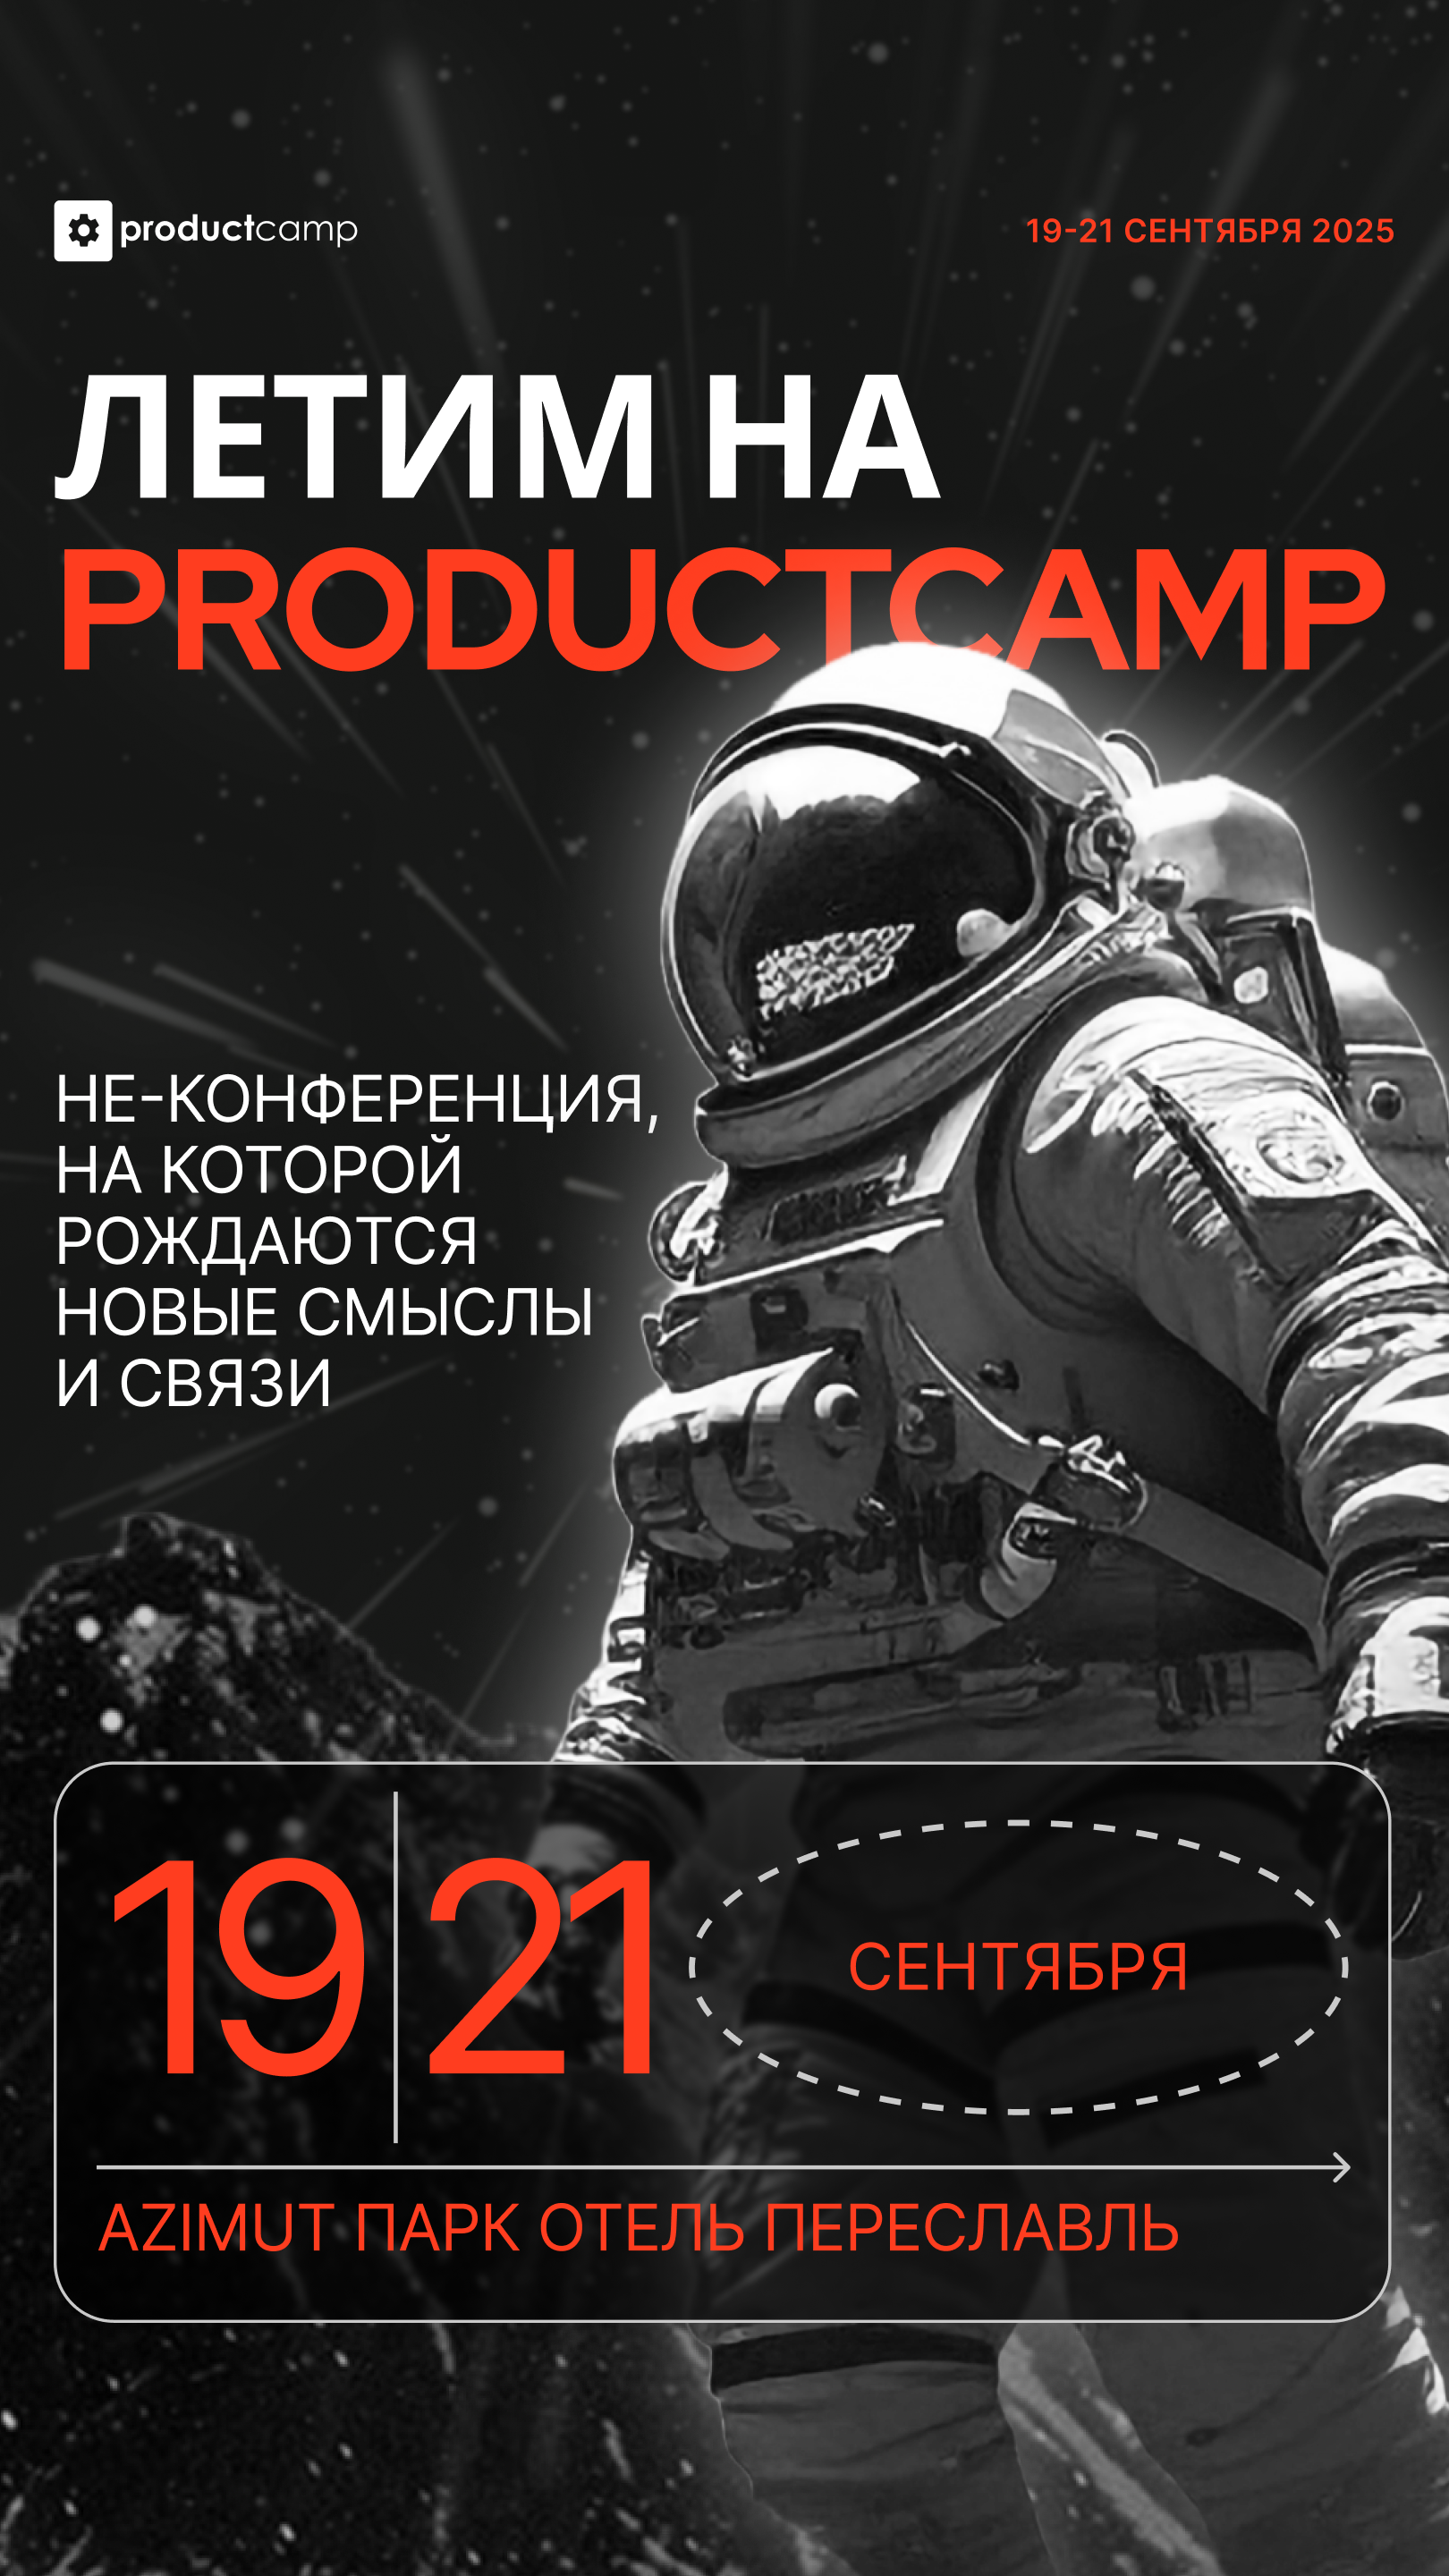
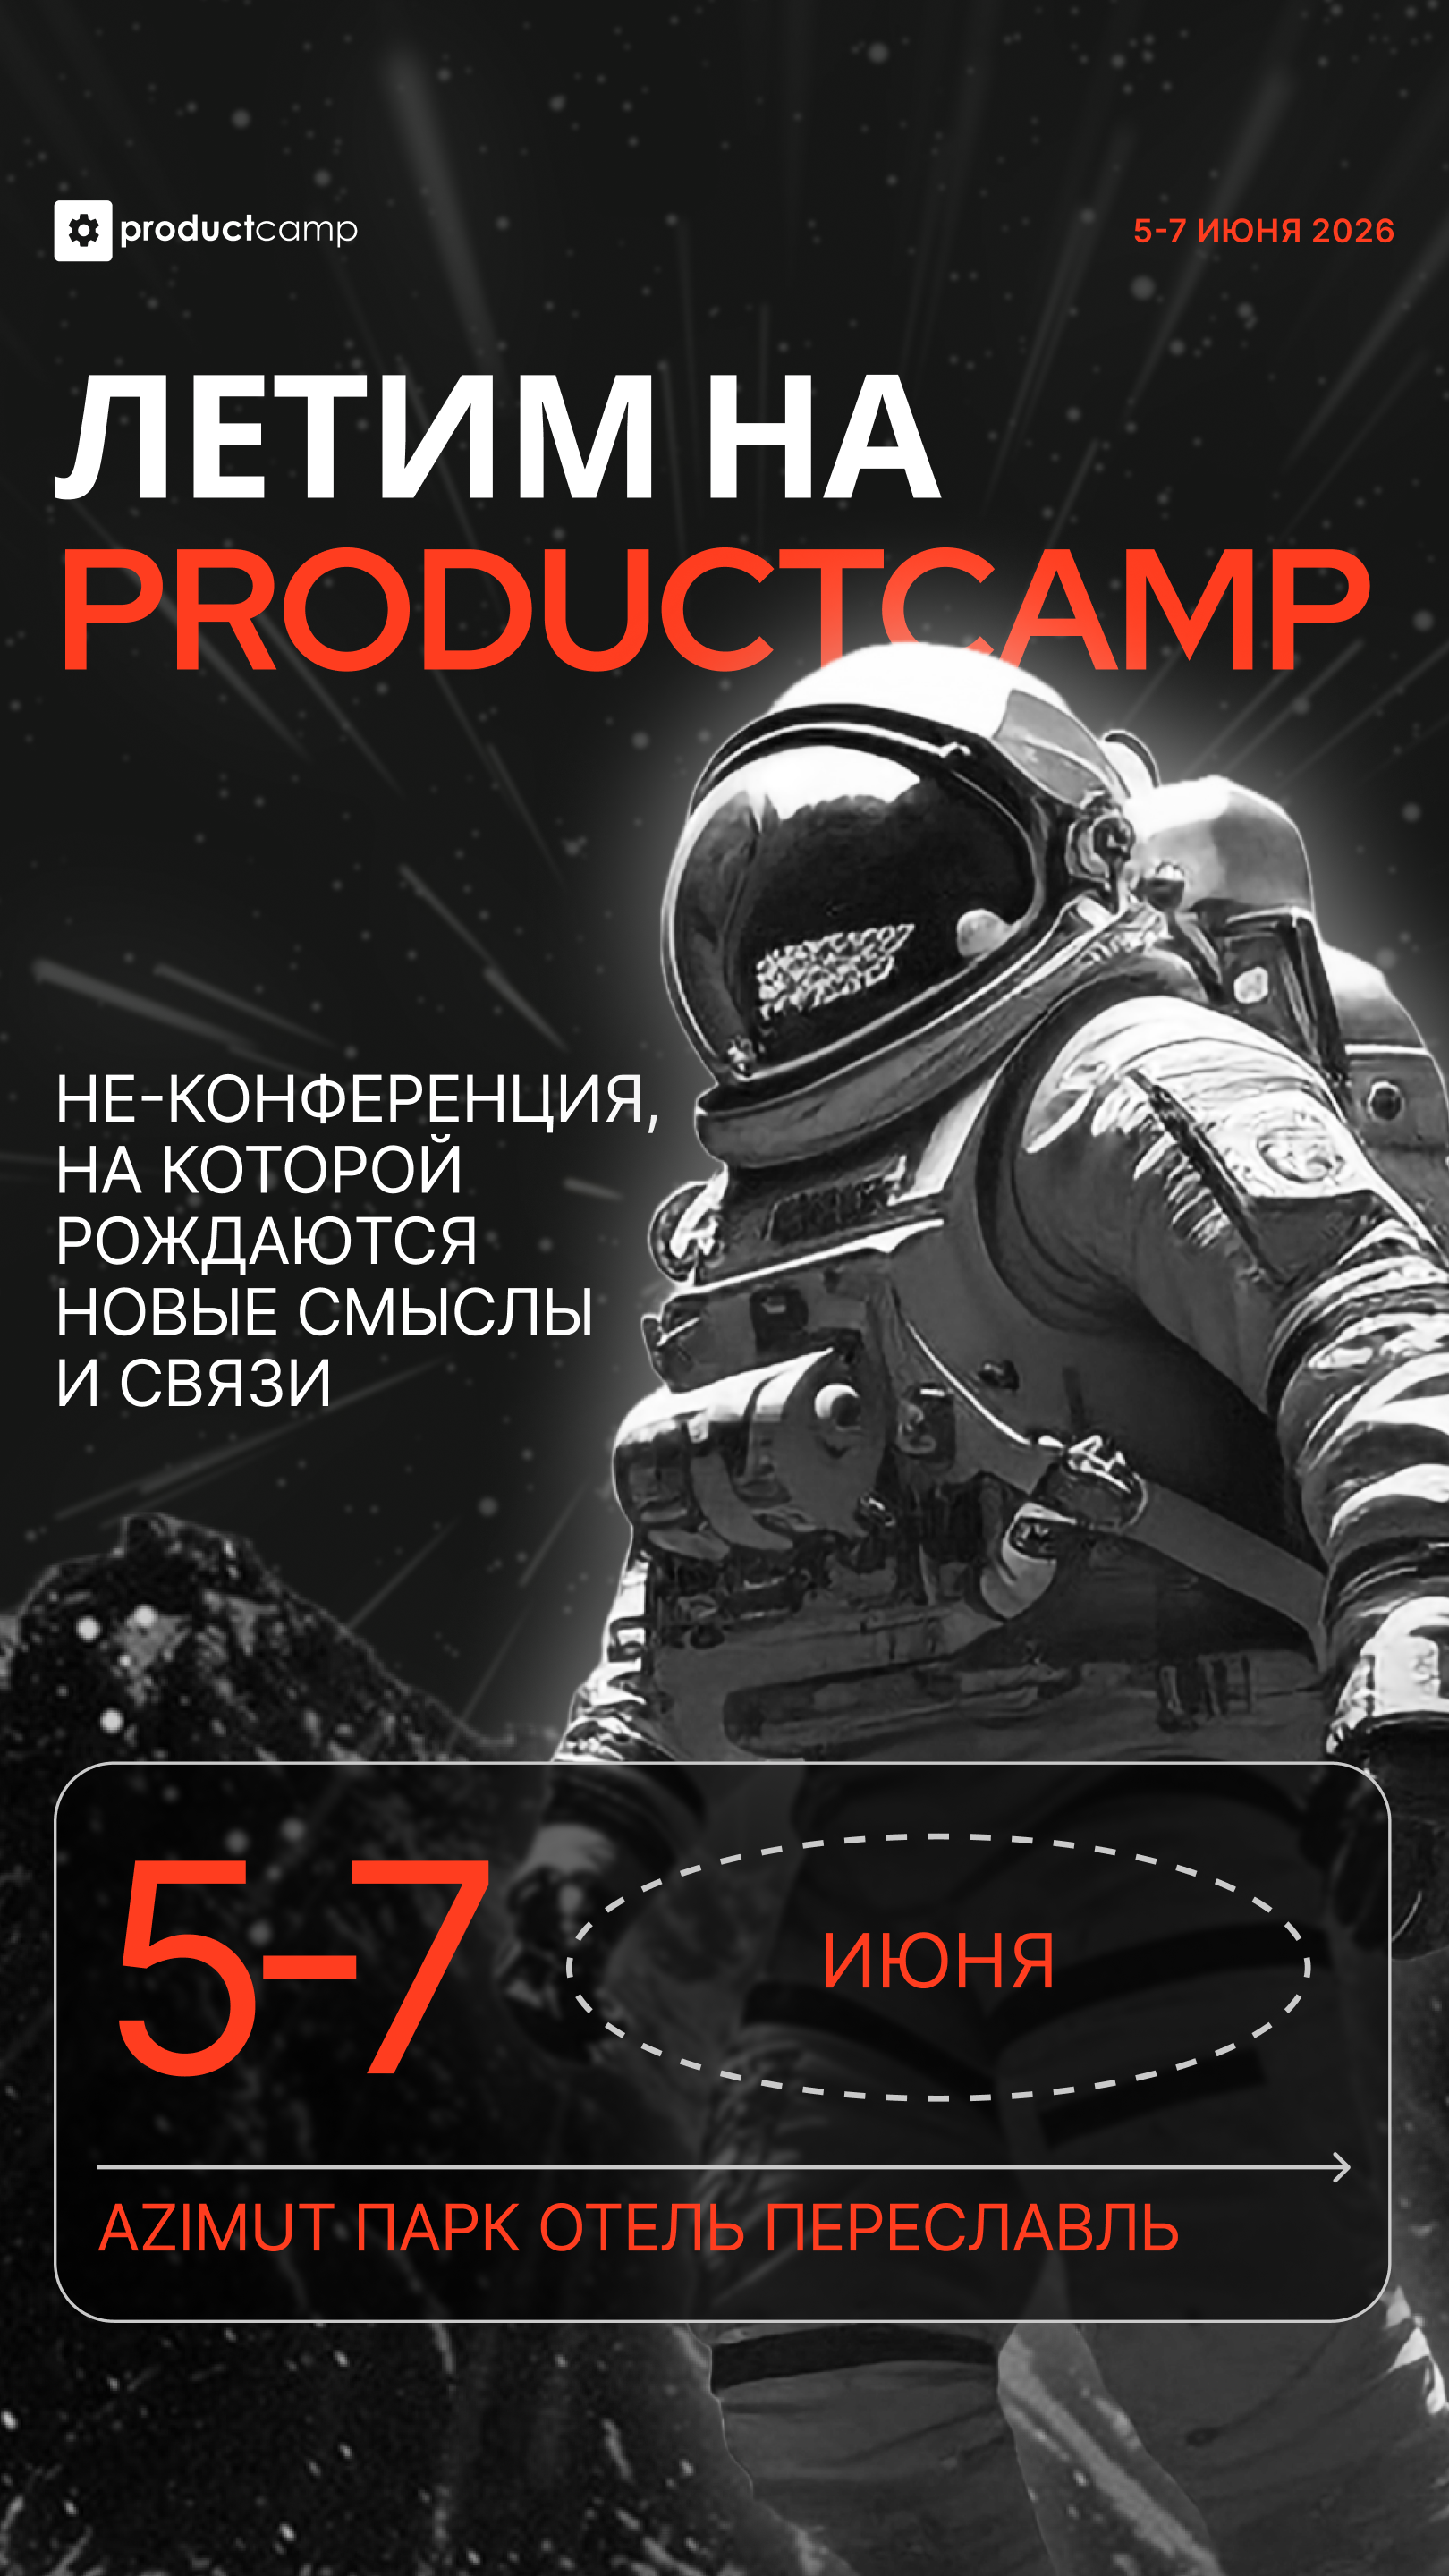
new assets and pretify

diff --git a/core/commands.ts b/core/commands.ts
@@ -148,27 +148,31 @@ export async function onGetStoriesTemplates(ctx: Context) {
         },
         {
             type: 'photo',
+            media: await assetsService.getStorageImage('story-aa.png'),
+        },
+        {
+            type: 'photo',
+            media: await assetsService.getStorageImage('story-bb.png'),
+        },
+        {
+            type: 'photo',
+            media: await assetsService.getStorageImage('story-cc.png'),
+        },
+        {
+            type: 'photo',
             media: await assetsService.getStorageImage('dark-story.png'),
         },
         {
             type: 'photo',
-            media: await assetsService.getStorageImage('bright-story.png'),
+            media: await assetsService.getStorageImage('sq-aa.png'),
         },
         {
             type: 'photo',
-            media: await assetsService.getStorageImage('dark-sq.png'),
+            media: await assetsService.getStorageImage('sq-bb.png'),
         },
         {
             type: 'photo',
-            media: await assetsService.getStorageImage('bright-sq.png'),
-        },
-        {
-            type: 'photo',
-            media: await assetsService.getStorageImage('planet.png'),
-        },
-        {
-            type: 'photo',
-            media: await assetsService.getStorageImage('sins.png'),
+            media: await assetsService.getStorageImage('sq-cc.png'),
         },
     ]);
 

diff --git a/core/commands.service.ts b/core/commands.service.ts
@@ -14,8 +14,8 @@ export class CommandsService {
             .row()
             .text(locale(lang).getInvite, 'getInvite')
             .row()
-            // .text(locale(lang).stories, 'getStories')
-            // .row()
+            .text(locale(lang).stories, 'getStories')
+            .row()
             .text(locale(lang).getQr, 'generateQr');
 
         await ctx.reply(locale(lang).genKeyboard, {

diff --git a/core/localisations.ts b/core/localisations.ts
@@ -33,7 +33,7 @@ const localeRU: Locale = {
     generatorExplain: `Это твоя персональная ссылка\n
 Пригласи на ProductCamp своих коллег и друзей, мы уверены, среди них будет много заинтересованных 🙏`,
     generatorExplainMore: `😎 *Вот несколько классных рекомендаций, чтобы все получилось:*\n
-❗️ Во-первых, для успеха тебе нужно *минимум 30 баллов* для попадания в лидерборд. За участников, которые регистрируются на офлайн-формат начисляется 3 балла, за онлайн — 1 балл.\nЭто могут продакт-менеджеры, аналитики, продукт-маркетинг менеджеры, UX- и продуктовые дизайнеры, проджект-менеджеры, CPO, CEO и все, чья жизнь связана с разработкой продуктов.\n
+❗️ Во-первых, для успеха тебе нужно *минимум 30 баллов* для попадания в лидерборд. За участников, которые регистрируются на офлайн-формат начисляется 3 балла, за онлайн — 1 балл.\nЭто могут быть продакт-менеджеры, аналитики, продукт-маркетинг менеджеры, UX- и продуктовые дизайнеры, проджект-менеджеры, CPO, CEO и все, чья жизнь связана с разработкой продуктов.\n
 🤓 Поделись ссылкой с коллегами и друзьями из индустрии — со своей компанией на кэмпе точно будет веселее!\n
 👩🎤 У тебя наверняка есть чатики продактов, маркетологов, дизайнеров и других диджитал-профессионалов — закинь ссылку туда, им точно будет интересно. Можешь отправить даже в чат кэмпа 😜\n
 🔳 Сгенери QR-код и добавь его на свою аватарку или используй в офлайне\n
@@ -45,7 +45,7 @@ const localeRU: Locale = {
     moreAboutLabel: `Подробнее о программе`,
     moreAboutUrl: `https://productcamp.ru/refprogram_autumn_2025?utm_medium=bot&utm_source=pc_referral_bot&utm_campaign=info`,
     getLink: '🎯 Получить новую ссылку',
-    helpText: `Этот бот помогает создать специальную ссылку для участия в реферальной программе осеннего ProductCamp 2026.\n
+    helpText: `Этот бот помогает создать специальную ссылку для участия в реферальной программе ProductCamp 2026.\n
 А если ты столкнешься с проблемами, багами или у тебя будут предолжения по работе бота, то обязательно пиши нам сюда 👇\n
 [Связаться с нами](https://forms.gle/tRqzyqUbUktuavep6)\n
 С любовью ❤️🔥,